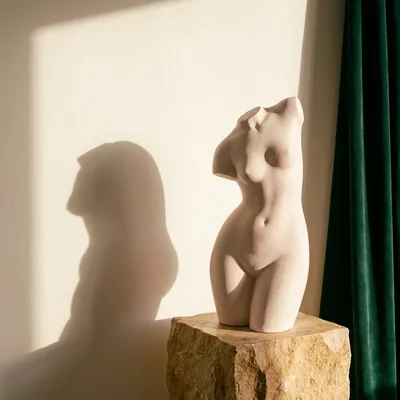
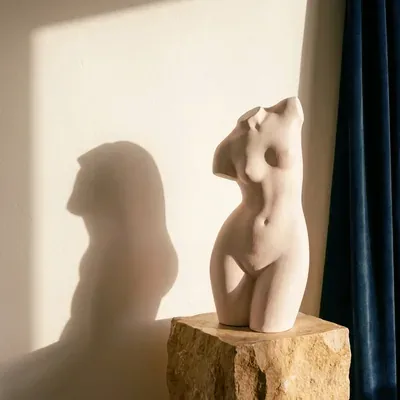
Real photography and a Royal Navy palette
A comparison branch against main, changing two things and nothing else.

Photographs. Twenty-one slots now carry the shoot from the repo instead
of generated imagery: the consultation, journey, portrait, Barts,
mosaic, testimonial and CTA images on the homepage, all seven Instagram
tiles, and every photograph on the About page. Each is cropped from the
original at the target ratio and never upscaled, so where a source could
not fill the slot the asset is smaller and its intrinsic size in the
markup follows. Alt text is rewritten where it described the old image.

The testimonial background is the one deliberate exception: the quote
sits on it with only a soft ivory pool behind, so a photograph in focus
made it unreadable. That one is blurred and washed back toward the page
ivory until it behaves like light rather than a picture.

Colour. --navy, --navy-deep and --navy-soft are the new source of truth,
matched to the emerald they replace for lightness so the ivory and gold
keep their contrast. The --emerald names stay as aliases, which keeps the
diff to the tokens and the handful of places the greens were written out
as rgba literals, and keeps a merge back to main tractable.

Eight generated images carried emerald in the photography itself, satin
being entirely made of it. Their green is hue-shifted into navy, the band
chosen so skin, gold frames and marble are untouched.

Four category tiles and six flagship thumbnails stay generated: they show
[…]

Changed region(s): [[0.9, 0.57, 0.99, 0.99], [0.87, 0.27, 0.93, 0.42]]

diff --git a/src/styles/global.css b/src/styles/global.css
@@ -9,9 +9,17 @@
   --ivory: #f4eee4;
   --ivory-2: #ebe3d6;
   --paper: #fbf8f3;
-  --emerald: #0f3b2e;
-  --emerald-deep: #0a2a21;
-  --emerald-soft: #1b5241;
+  /* Royal Navy blue, matched to the emerald it replaces for lightness so the
+     ivory and gold on top keep their contrast. The --emerald names stay as
+     aliases: every component still asks for them, and this branch only has to
+     answer differently. */
+  --navy: #12315b;
+  --navy-deep: #091d38;
+  --navy-soft: #22507f;
+
+  --emerald: var(--navy);
+  --emerald-deep: var(--navy-deep);
+  --emerald-soft: var(--navy-soft);
   --gold: #b8964f;
   --gold-light: #d8bd7c;
   --blush: #e3cdc2;
@@ -217,7 +225,7 @@ section[id] { scroll-margin-top: 5.5rem; }
 }
 .btn--ivory:hover { background: var(--paper); }
 
-.btn--outline { background: transparent; color: var(--emerald); border-color: rgba(15, 59, 46, 0.4); }
+.btn--outline { background: transparent; color: var(--emerald); border-color: rgba(18, 49, 91, 0.4); }
 .btn--outline:hover { border-color: var(--emerald); }
 
 .btn--outline-light { background: transparent; color: var(--ivory); border-color: rgba(244, 238, 228, 0.45); }
